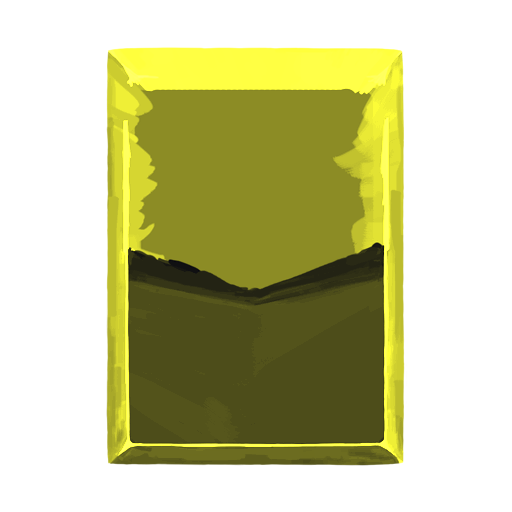
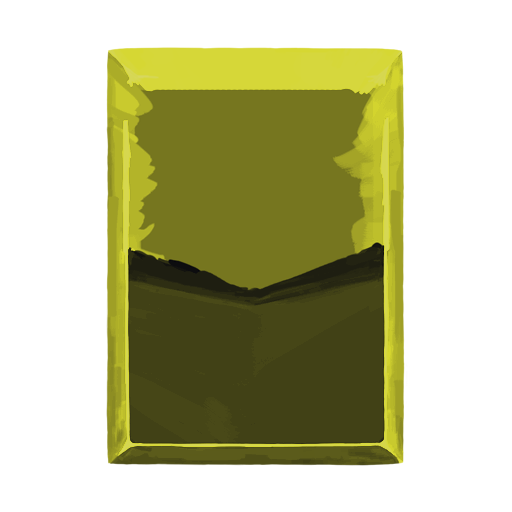
Updates for MTS/BaseMod
Card changes:
 - Synchronize now deals 8<15> damage instead of 10<20>.

Visuals:
 - Slightly darkened card color.

Behind-the-scenes changes:
 - Changed how mega-upgraded cards are saved & loaded.
 - Minor changes to how persistent data (Phoenix checkbox status, wedding ring link) is saved & loaded.
 - Updated some patches to work with BaseMod's new patch requirements.

Like last time, stuff is slightly more likely to be broken than usual due to the backend changes. If you notice issues with your cards when loading a saved run, let me know!

Changed region(s): [[0.1875, 0.0938, 0.8125, 0.9062]]

diff --git a/src/main/java/constructmod/ConstructMod.java b/src/main/java/constructmod/ConstructMod.java
@@ -84,7 +84,7 @@ public class ConstructMod implements PostInitializeSubscriber, EditCardsSubscrib
         // Mod badge
         Texture badgeTexture = new Texture(Gdx.files.internal("img/ConstructModBadge.png"));
         
-        phoenixStart = BaseMod.maybeGetBoolean("Phoenix");
+        loadPhoenixData();
         
         ModPanel settingsPanel = new ModPanel();
         
@@ -95,15 +95,14 @@ public class ConstructMod implements PostInitializeSubscriber, EditCardsSubscrib
         		350.0f, 600.0f, Settings.CREAM_COLOR, FontHelper.charDescFont,
         		phoenixStart, settingsPanel, (label) -> {}, (button) -> {
         			phoenixStart = button.enabled;
-        			BaseMod.maybeSetBoolean("Phoenix", phoenixStart);
+        			saveData();
         			resetCharSelect();
         		});
         if (UnlockTracker.getUnlockLevel(TheConstructEnum.THE_CONSTRUCT_MOD) >= 1) settingsPanel.addUIElement(phoenixBtn);
         else {
         	if (phoenixStart) {
         		phoenixStart = false;
-        		BaseMod.maybeSetBoolean("Phoenix", false);
-        		// this should be moved into Save/Load system at some point, but I'm not touching it because I don't want to break anything.
+        		saveData();
         	}
         	settingsPanel.addUIElement(buttonLabel);
         	settingsPanel.addUIElement(buttonLabel2);
@@ -116,21 +115,35 @@ public class ConstructMod implements PostInitializeSubscriber, EditCardsSubscrib
     
     public static void saveData() {
     	try {
+    		SpireConfig config = new SpireConfig("ConstructMod", "ConstructSaveData");
+    		config.setBool("phoenixStart", phoenixStart);
     		if (AbstractDungeon.player != null && AbstractDungeon.player.hasRelic("WeddingRing")) {
-    			SpireConfig config = new SpireConfig("ConstructMod", "ConstructSaveData");
     			config.setInt("marriedCard1", AbstractDungeon.player.masterDeck.group.indexOf(((WeddingRing)AbstractDungeon.player.getRelic("WeddingRing")).card1));
     			config.setInt("marriedCard2", AbstractDungeon.player.masterDeck.group.indexOf(((WeddingRing)AbstractDungeon.player.getRelic("WeddingRing")).card2));
-    			config.save();
     		}
-			
+    		config.save();
 		} catch (Exception e) {
 			e.printStackTrace();
 		}
     }
     
     public static void clearData() {
+    	phoenixStart = false;
     	marriedCard1 = marriedCard2 = -1;
     	saveData();
+    }
+    
+    public static void loadPhoenixData() {
+    	try {
+    		logger.info("ConstructMod | Loading Phoenix Preference...");
+	    	SpireConfig config = new SpireConfig("ConstructMod", "ConstructSaveData");
+			config.load();
+			phoenixStart = config.getBool("phoenixStart");
+    	}
+    	catch(Exception e) {
+    		e.printStackTrace();
+			clearData();
+    	}
     }
     
     public static void loadData() {
@@ -141,7 +154,6 @@ public class ConstructMod implements PostInitializeSubscriber, EditCardsSubscrib
 			
 			marriedCard1 = config.getInt("marriedCard1");
 			marriedCard2 = config.getInt("marriedCard2");
-			logger.info("MARRIED: " + marriedCard1 + " " + marriedCard2);
 		
 		} catch (Exception e) {
 			e.printStackTrace();

diff --git a/src/main/java/constructmod/patches/SavePatch.java b/src/main/java/constructmod/patches/SavePatch.java
@@ -8,12 +8,16 @@ import constructmod.ConstructMod;
 
 // Patch copied from Infinite Spire (https://github.com/GraysonnG/InfiniteSpire)
 public class SavePatch {
-	@SpirePatch(cls = "com.megacrit.cardcrawl.saveAndContinue.SaveAndContinue", method = "loadSaveFile")
+	/*@SpirePatch(cls = "com.megacrit.cardcrawl.saveAndContinue.SaveAndContinue", method = "loadSaveFile", paramtypes = {"com.megacrit.cardcrawl.characters.AbstractPlayer$PlayerClass"})
 	public static class LoadGame {
 		
 		public static void Prefix(AbstractPlayer.PlayerClass pClass) {
 			ConstructMod.loadData();
 		}
+	}*/
+	
+	@SpirePatch(cls = "com.megacrit.cardcrawl.saveAndContinue.SaveAndContinue", method = "loadSaveFile", paramtypes = {"java.lang.String"})
+	public static class LoadGameByString{
 		
 		public static void Prefix(String filePath) {
 			ConstructMod.loadData();

diff --git a/src/main/java/constructmod/patches/SaveMegaUpgradesPatch.java b/src/main/java/constructmod/patches/SaveMegaUpgradesPatch.java
@@ -1,0 +1,15 @@
+package constructmod.patches;
+
+import com.evacipated.cardcrawl.modthespire.lib.SpirePatch;
+import com.megacrit.cardcrawl.cards.AbstractCard;
+import constructmod.cards.AbstractConstructCard;
+
+@SpirePatch(cls="com.megacrit.cardcrawl.helpers.CardLibrary", method = "getCopy", paramtypes = {"java.lang.String","int","int"})
+public class SaveMegaUpgradesPatch {
+    public static AbstractCard Postfix(AbstractCard retVal, final String key, final int upgradeTime, final int misc) {
+        while (retVal.timesUpgraded < upgradeTime && retVal instanceof AbstractConstructCard){
+        	((AbstractConstructCard)retVal).upgrade(true);
+        }
+        return retVal;
+    }
+}

diff --git a/src/main/java/constructmod/patches/ReboundCardPatch.java b/src/main/java/constructmod/patches/ReboundCardPatch.java
@@ -9,7 +9,7 @@ import com.megacrit.cardcrawl.core.AbstractCreature;
 import basemod.ReflectionHacks;
 import constructmod.cards.AbstractConstructCard;
 
-@SpirePatch(cls="com.megacrit.cardcrawl.actions.utility.UseCardAction", method="ctor")
+@SpirePatch(cls="com.megacrit.cardcrawl.actions.utility.UseCardAction", method="ctor", paramtypes= {"com.megacrit.cardcrawl.cards.AbstractCard","com.megacrit.cardcrawl.core.AbstractCreature"})
 public class ReboundCardPatch {
 	@SpireInsertPatch(rloc=6)
 	public static void Insert(Object __obj_instance, final AbstractCard card, final AbstractCreature target) {

diff --git a/src/main/java/constructmod/cards/Synchronize.java b/src/main/java/constructmod/cards/Synchronize.java
@@ -18,9 +18,9 @@ public class Synchronize extends AbstractConstructCard {
 	public static final String DESCRIPTION = cardStrings.DESCRIPTION;
 	public static final String UPGRADE_DESCRIPTION = cardStrings.UPGRADE_DESCRIPTION;
 	private static final int COST = 1;
-	private static final int POWER_DAMAGE = 10;
+	private static final int POWER_DAMAGE = 8;
 	//private static final int UPGRADE_PLUS_POWER_DAMAGE = 2;
-	private static final int M_UPGRADE_PLUS_POWER_DAMAGE = 10;
+	private static final int M_UPGRADE_PLUS_POWER_DAMAGE = 7;
 	private static final int POOL = 1;
 
 	public Synchronize() {

diff --git a/src/main/java/constructmod/cards/AbstractConstructCard.java b/src/main/java/constructmod/cards/AbstractConstructCard.java
@@ -27,7 +27,6 @@ public abstract class AbstractConstructCard extends CustomCard {
 	
 	public AbstractConstructCard(String id, String name, String img, int cost, String rawDescription, CardType type, CardColor color, CardRarity rarity, CardTarget target, int cardPool) {
 		super(id, name, img, cost, rawDescription, type, color, rarity, target);
-		//super(id, name, img, img, cost, rawDescription, type, color, rarity, target);
 	}
 	
 	public void CloneCore() {

diff --git a/src/main/java/constructmod/cards/HardReboot.java b/src/main/java/constructmod/cards/HardReboot.java
@@ -9,7 +9,7 @@ import com.megacrit.cardcrawl.dungeons.AbstractDungeon;
 import com.megacrit.cardcrawl.localization.CardStrings;
 import com.megacrit.cardcrawl.monsters.AbstractMonster;
 
-
+import basemod.BaseMod;
 import basemod.abstracts.CustomCard;
 import constructmod.patches.AbstractCardEnum;
 
